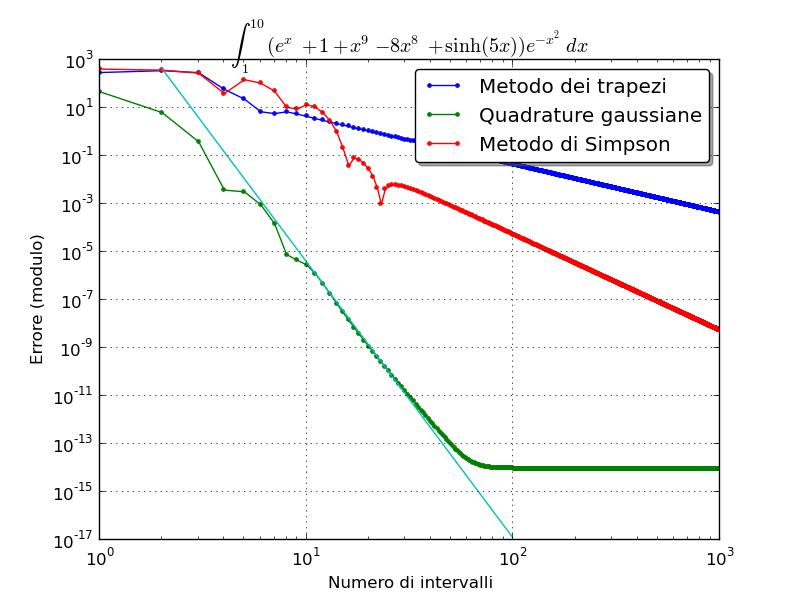
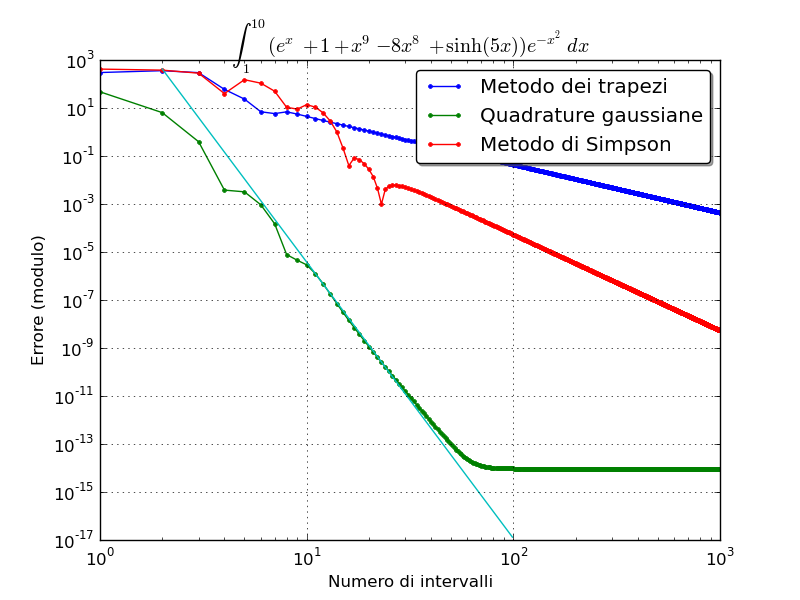
lavoro sulla relazione

diff --git a/relazione/tex/relazione.tex b/relazione/tex/relazione.tex
@@ -2,17 +2,29 @@
 \usepackage[utf8]{inputenc}
 
 %opening
-\title{}
-\author{}
+\title{Relazioni dal laboratorio di calcolo}
+\author{Riccardo Iaconelli}
 
 \begin{document}
 
 \maketitle
 
 \begin{abstract}
-
+Durante
 \end{abstract}
 
-\section{}
+\section{Serie numeriche e precisione float}
+\section{Integrazione con metodi deterministici}
+\subsection{Metodo dei Trapezi}
+\subsection{Metodo di Simpson}
+\subsection{Metodo delle Quadrature Gaussiane}
+\subsection{Conclusioni}
+
+\section{Integrazione Monte-Carlo}
+\subsection{Ago di Buffon}
+
+\section{Integali di Feynman}
+
+\section{Calcolo di equazioni differenziali}
 
 \end{document}

diff --git a/relazione/integrali.py b/relazione/integrali.py
@@ -25,3 +25,7 @@ plot('sommaprecisa', minx=20, maxx=25)
 
 execfile('data/det-bigprecision.py')
 plot('bigprecision', 'upper right', 'upper left', True, 10, 60)
+
+import numpy as np
+funzione1 = np.recfromcsv("data/int-det-10-6.csv")
+plot('bigprecision-longrun', 'upper right', 'upper left', True, 11, 100)
